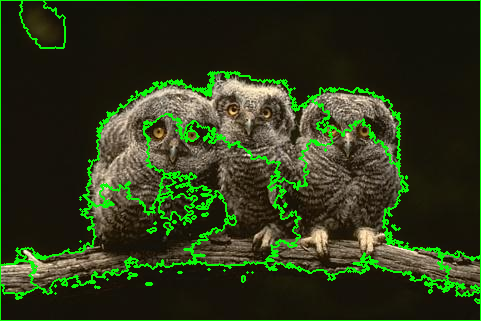
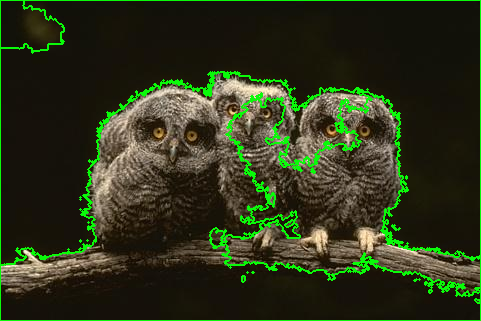
now gets minimum segments every time

diff --git a/moea/src/main/java/moea/Chromosome.java b/moea/src/main/java/moea/Chromosome.java
@@ -138,14 +138,27 @@ public class Chromosome {
     private void concatenateSegments() {
         // burde kansje bruke en form for k-nearest Neighbours tror det er ett bra utg.punkt.
         System.out.println("Now concatenating...");
-        int minPixels = 10000;
+//        int minPixels = 10000;
+        int minPixels = this.numberOfPixels / minSegments;
 
-        List<Segment> segs = this.segments.stream().filter(
+//        List<Segment> segs = this.segments.stream().filter(
+//                segment -> segment.getSegmentSize() < minPixels
+//        ).collect(Collectors.toList());
+
+        boolean run = true;
+//        while (segs.size() > minSegments) {
+        while (run) {
+
+            List<Segment> segs = this.segments.stream().filter(
                 segment -> segment.getSegmentSize() < minPixels
-        ).collect(Collectors.toList());
+            ).collect(Collectors.toList());
 
+            // check if we are allowed to remove // concatenate segments
+            if(this.segments.size() -1 < minSegments){
+                run = false;
+                break;
+            }
 
-        while (segs.size() > 3) {
             // Choose one random, find its distance to all other segments, merge with the closest one
             Segment s1 = segs.get(new Random().nextInt(segs.size()));
 
@@ -158,16 +171,24 @@ public class Chromosome {
                 }
                 pq.add(new SegmentEdge(s1, s2));
             }
-            for(int k = 0; k < 10 && !pq.isEmpty(); k++){
+            for(int k = 0; k < 1 && !pq.isEmpty(); k++){
                 SegmentEdge se = pq.remove(); // get the two closest.
                 se.s1.addAllPixels(se.s2.pixels); // merge the 2 segments
                 segs.remove(se.s2); // fjern s2 fra segs slik at vi ikke kan adde til den, men da heller til s1.
                 this.segments.remove(se.s2);
+
+                // check if after concatination, we can concatinate another one, or have min segments
+                if((this.segments.size()) - 1 < minSegments){
+                    run = false;
+                    break;
+                }
+
+
             }
 
-            segs = this.segments.stream().filter(
-                    segment -> segment.getSegmentSize() < minPixels
-            ).collect(Collectors.toList());
+//            segs = this.segments.stream().filter(
+//                    segment -> segment.getSegmentSize() < minPixels
+//            ).collect(Collectors.toList());
         }
     }
 

diff --git a/moea/src/main/java/moea/GA.java b/moea/src/main/java/moea/GA.java
@@ -22,7 +22,7 @@ public class GA {
         threadGenerateMST(popSize, MSTs);
 
         ArrayList<Chromosome> population = new ArrayList<>();
-        threadGenerateIndividuals(MSTs, population);
+        threadGenerateIndividuals(MSTs, population, 3);
 
         System.out.println("populationSize: " + MSTs.size());
         System.out.println("Score bitch: " + population.get(0).getFitness());
@@ -120,7 +120,7 @@ public class GA {
     }
 
 
-    private void threadGenerateIndividuals(ArrayList<MST> MSTs, ArrayList<Chromosome> population) {
+    private void threadGenerateIndividuals(ArrayList<MST> MSTs, ArrayList<Chromosome> population, int minSegments) {
         pool = Executors.newFixedThreadPool(Runtime.getRuntime().availableProcessors());
 
         List<Callable<Chromosome>> callableTasks = new ArrayList<>();
@@ -128,7 +128,7 @@ public class GA {
             int finalT = t;
             callableTasks.add(() -> {
                 MST mst = MSTs.get(finalT);
-                return new Chromosome(mst, mst.fuckersVisited.size(), 30, new double[]{0.5,0.5});
+                return new Chromosome(mst, mst.fuckersVisited.size(), minSegments, new double[]{0.5,0.5});
             });
             System.out.println("creating segmenting task :" + t);
         }
